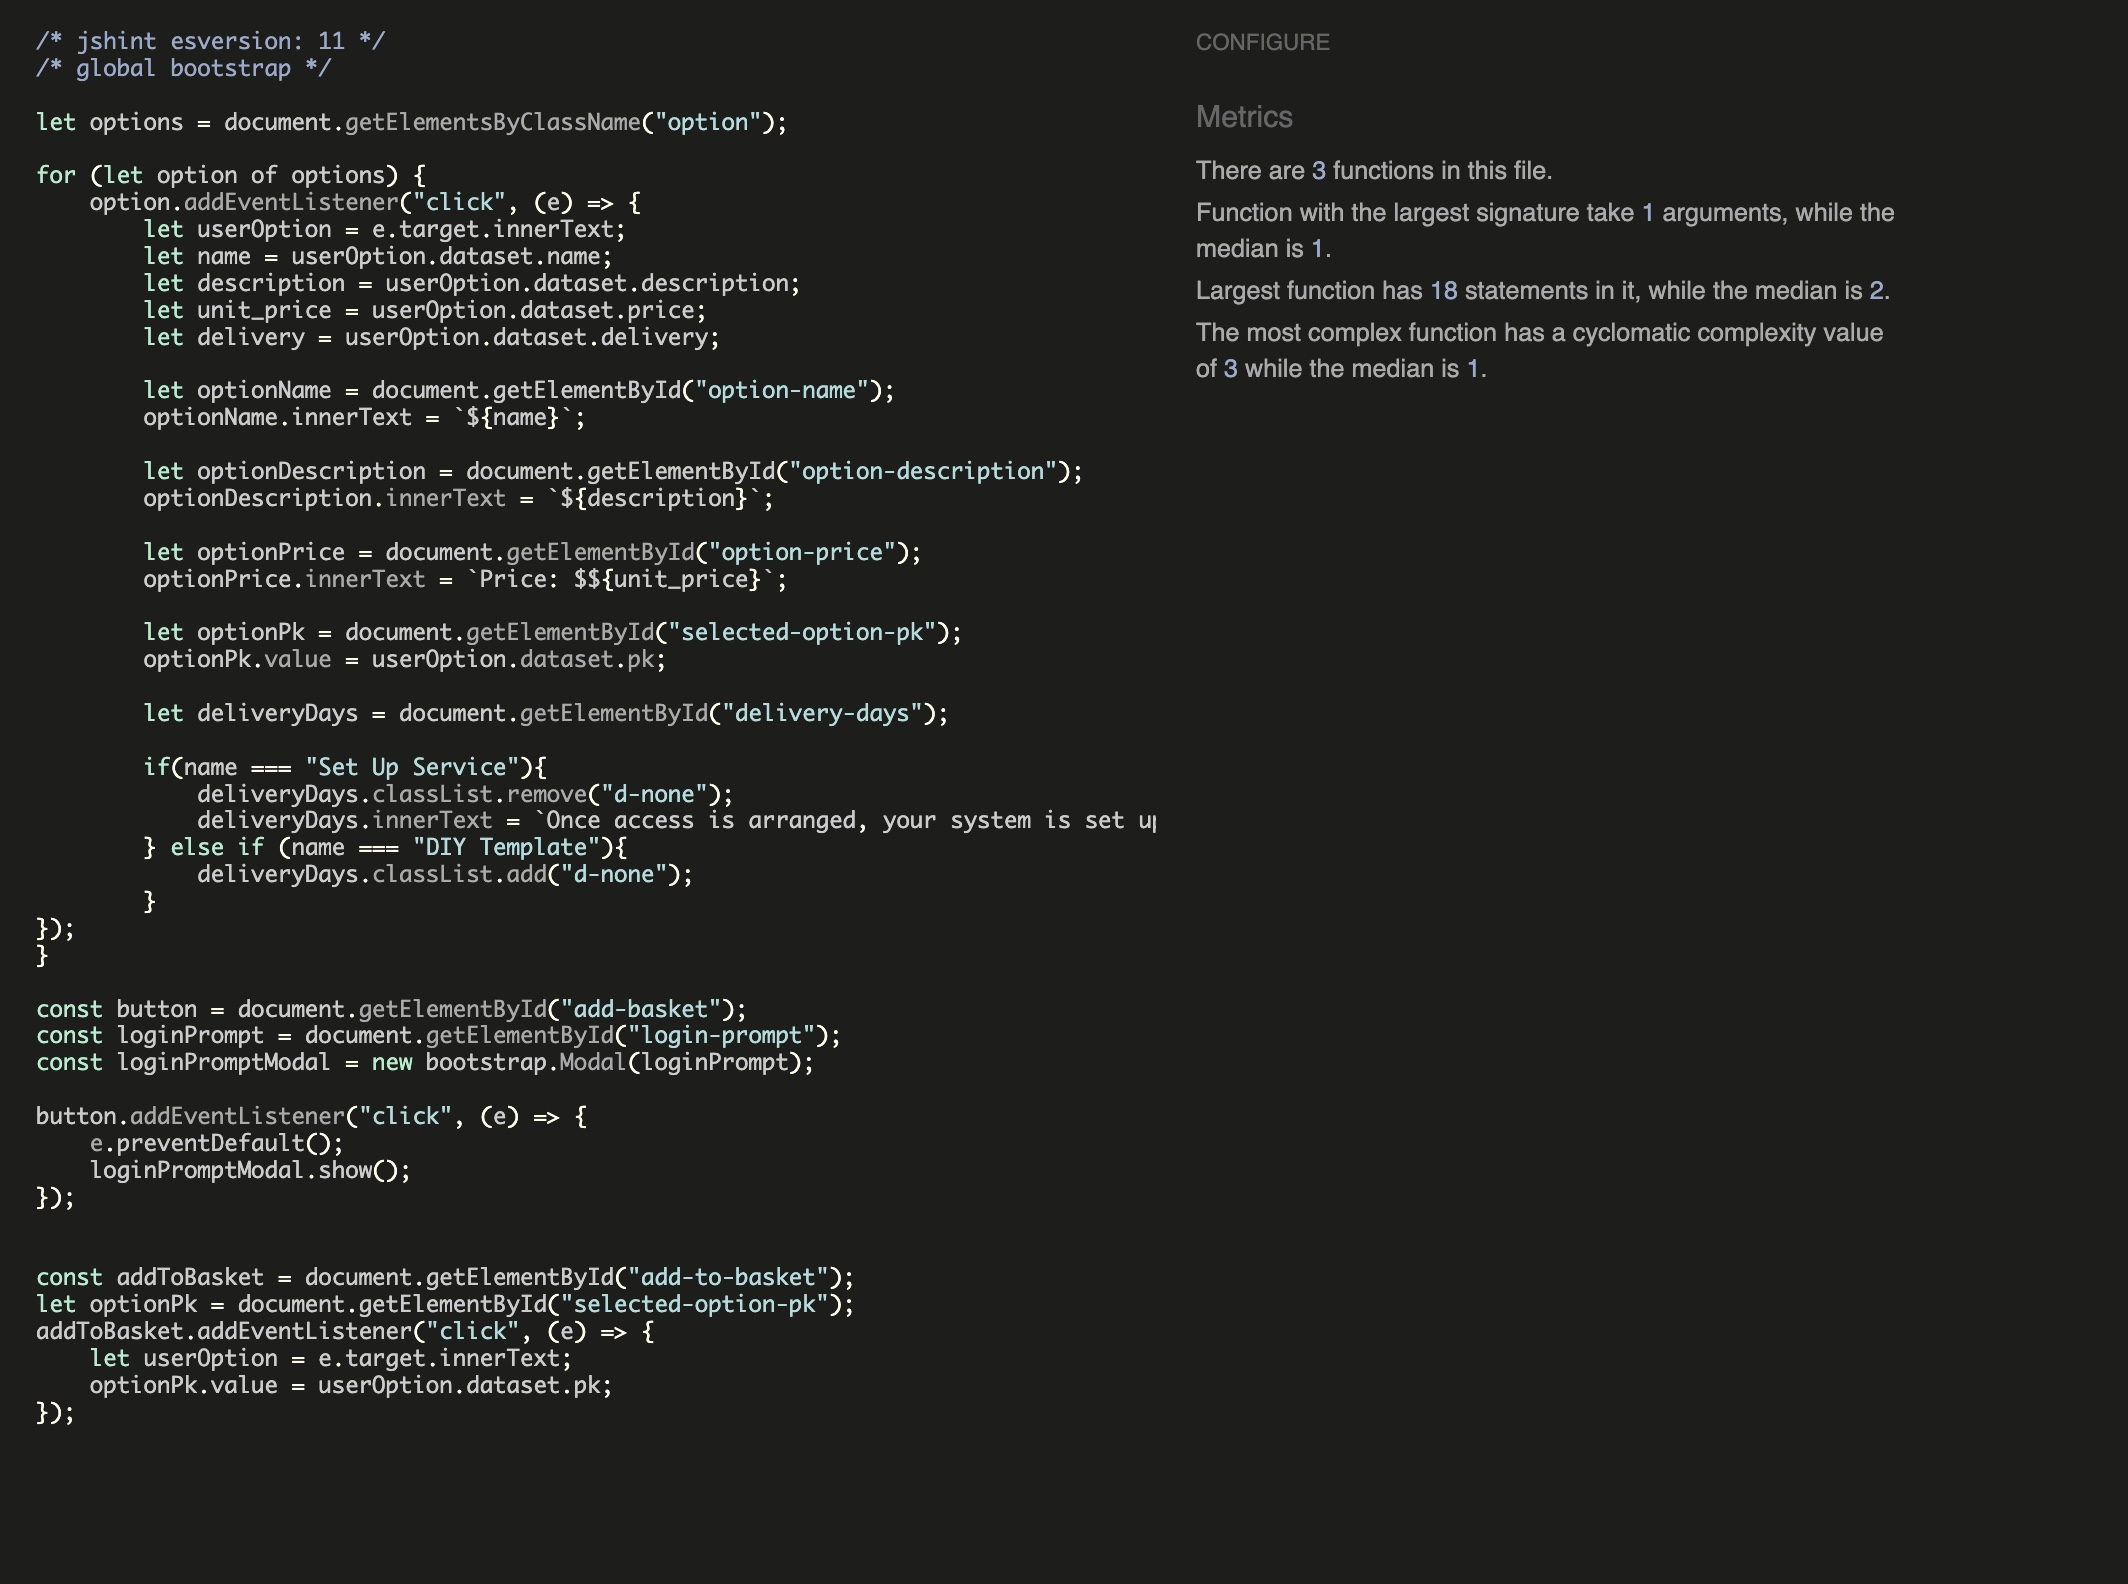
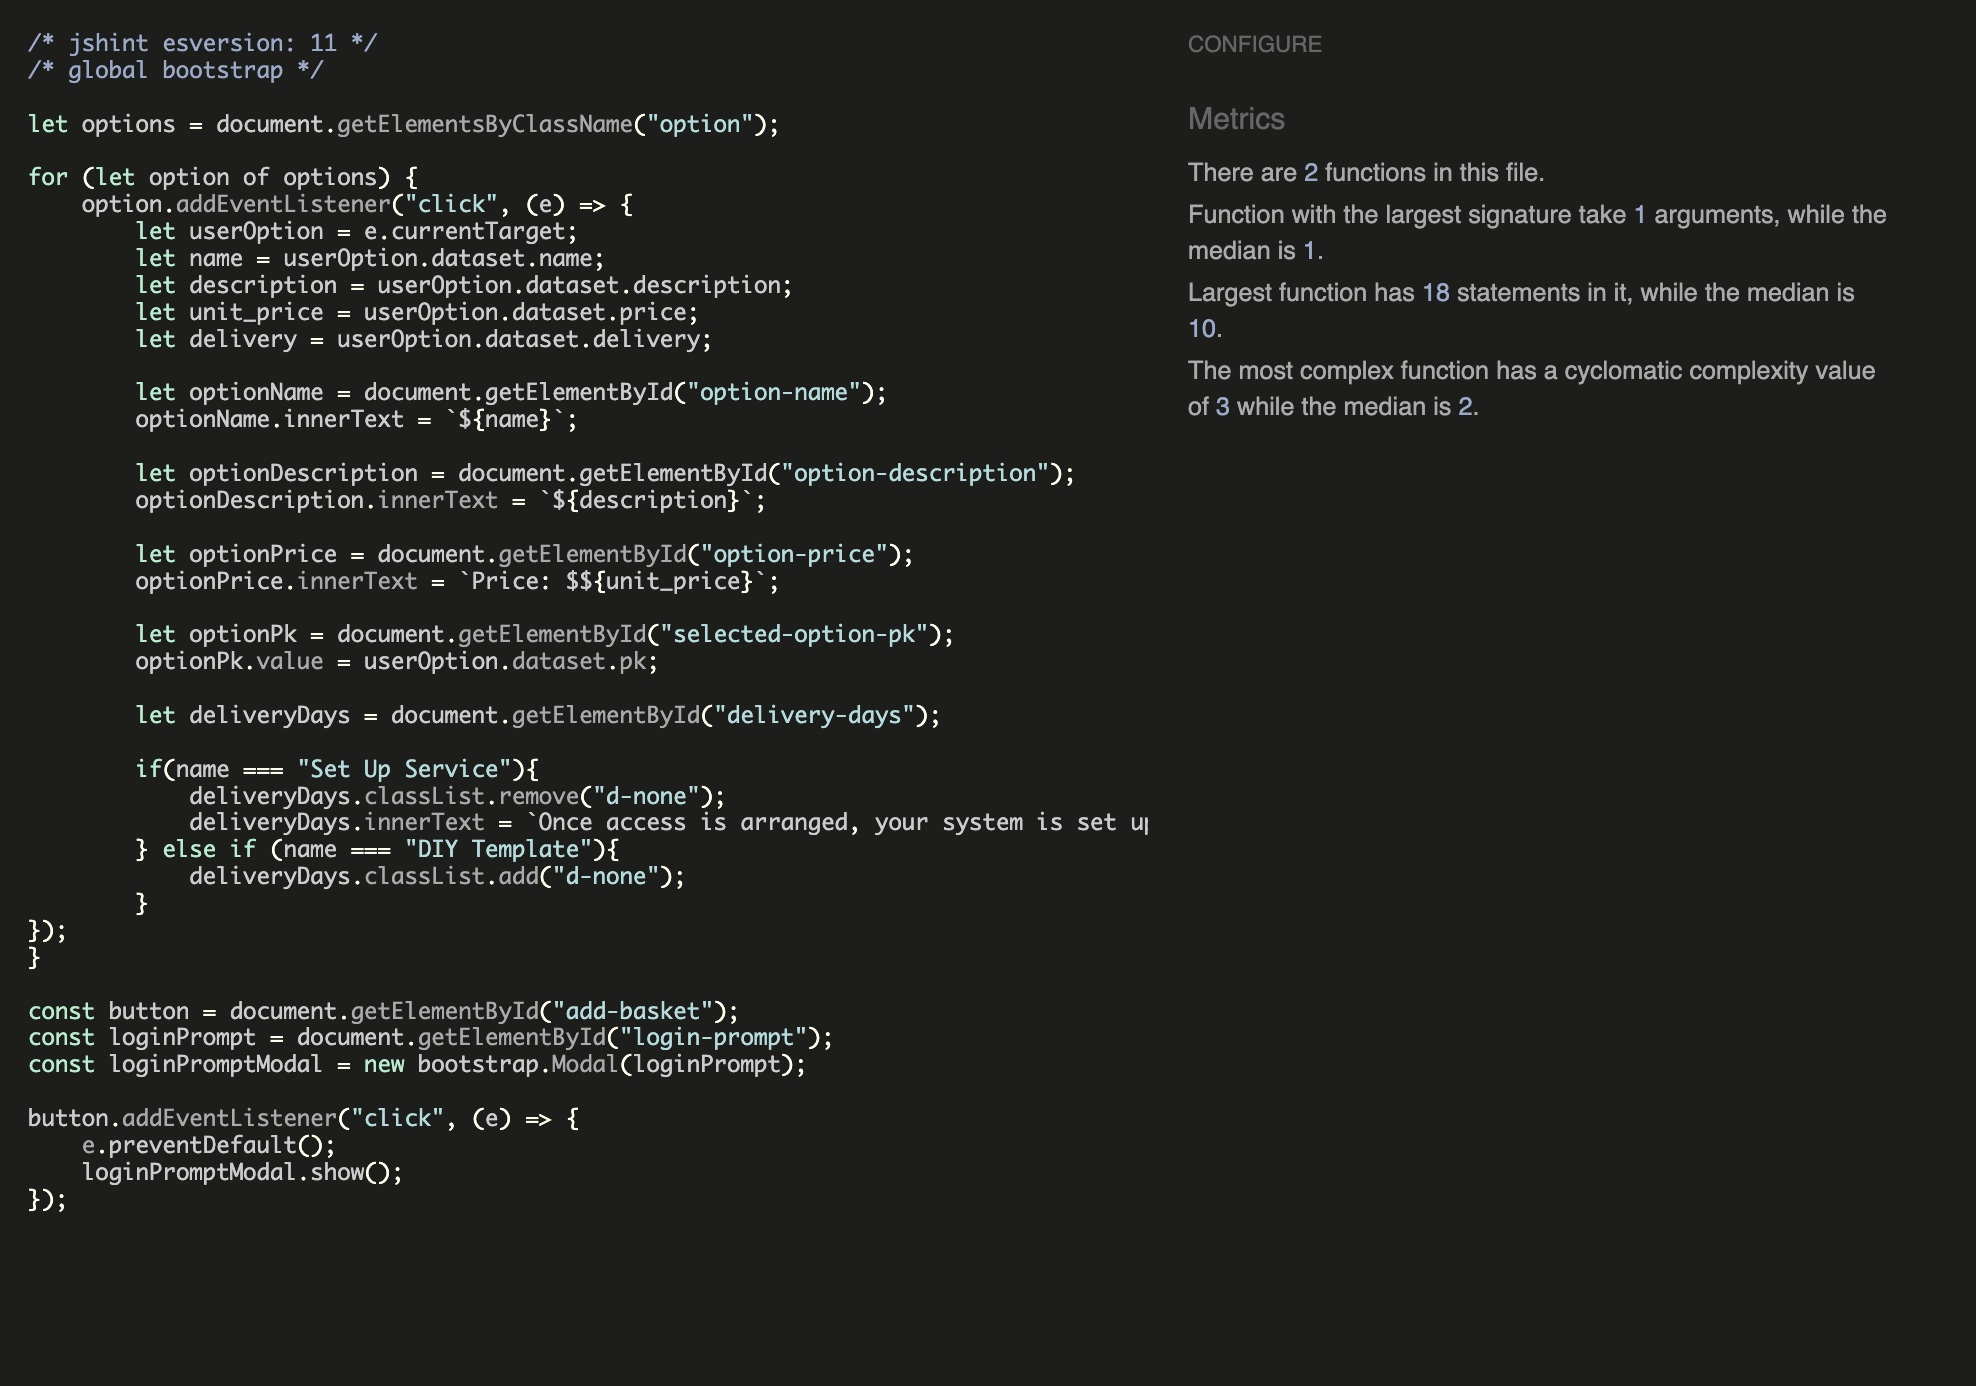
Improve product detail JavaScript

diff --git a/products/static/products/js/product_details.js b/products/static/products/js/product_details.js
@@ -5,11 +5,11 @@ let options = document.getElementsByClassName("option");
 
 for (let option of options) {
     option.addEventListener("click", (e) => {
-       
-        let name = option.dataset.name;
-        let description = option.dataset.description;
-        let unit_price = option.dataset.price;
-        let delivery = option.dataset.delivery;
+        let userOption = e.currentTarget;
+        let name = userOption.dataset.name;
+        let description = userOption.dataset.description;
+        let unit_price = userOption.dataset.price;
+        let delivery = userOption.dataset.delivery;
 
         let optionName = document.getElementById("option-name");
         optionName.innerText = `${name}`;
@@ -21,7 +21,7 @@ for (let option of options) {
         optionPrice.innerText = `Price: $${unit_price}`;
 
         let optionPk = document.getElementById("selected-option-pk");
-        optionPk.value = option.dataset.pk;
+        optionPk.value = userOption.dataset.pk;
 
         let deliveryDays = document.getElementById("delivery-days");
          

diff --git a/TESTING.md b/TESTING.md
@@ -138,6 +138,15 @@ I've tested my deployed project on multiple browsers to check for compatibility 
 | 404 | ![screenshot](documentation/browsers/chrome-404.jpeg) | ![screenshot](documentation/browsers/firefox-404.jpeg) | ![screenshot](documentation/browsers/safari-404.jpeg) | Works as expected |
 
 
+## Lighthouse Audit
+
+| Page | Mobile | Desktop |
+| --- | --- | --- |
+| Home | ![screenshot](documentation/lighthouse/mobile-register.png) | ![screenshot](documentation/lighthouse/desktop-home.jpeg) |
+| Bag | ![screenshot](documentation/lighthouse/mobile-register.png) | ![screenshot](documentation/lighthouse/desktop-bag.jpeg) |
+| Purchases | ![screenshot](documentation/lighthouse/mobile-register.png) | ![screenshot](documentation/lighthouse/desktop-purchases.jpeg) |
+| Profiles | ![screenshot](documentation/lighthouse/mobile-register.png) | ![screenshot](documentation/lighthouse/desktop-profile.jpeg) |
+
 
 
 